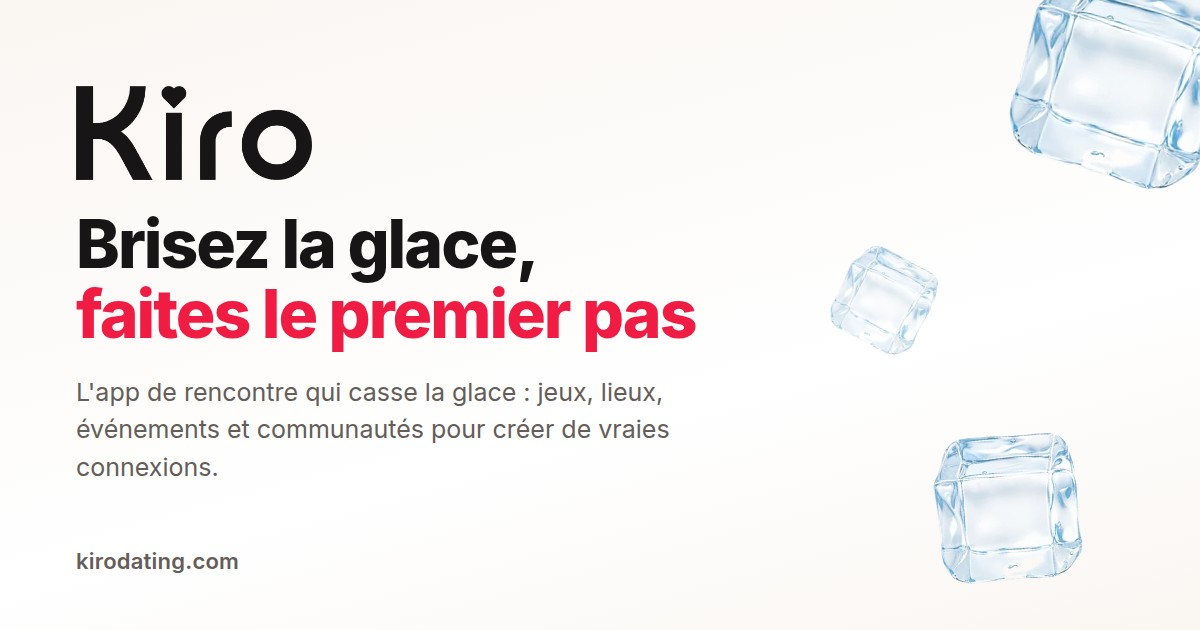
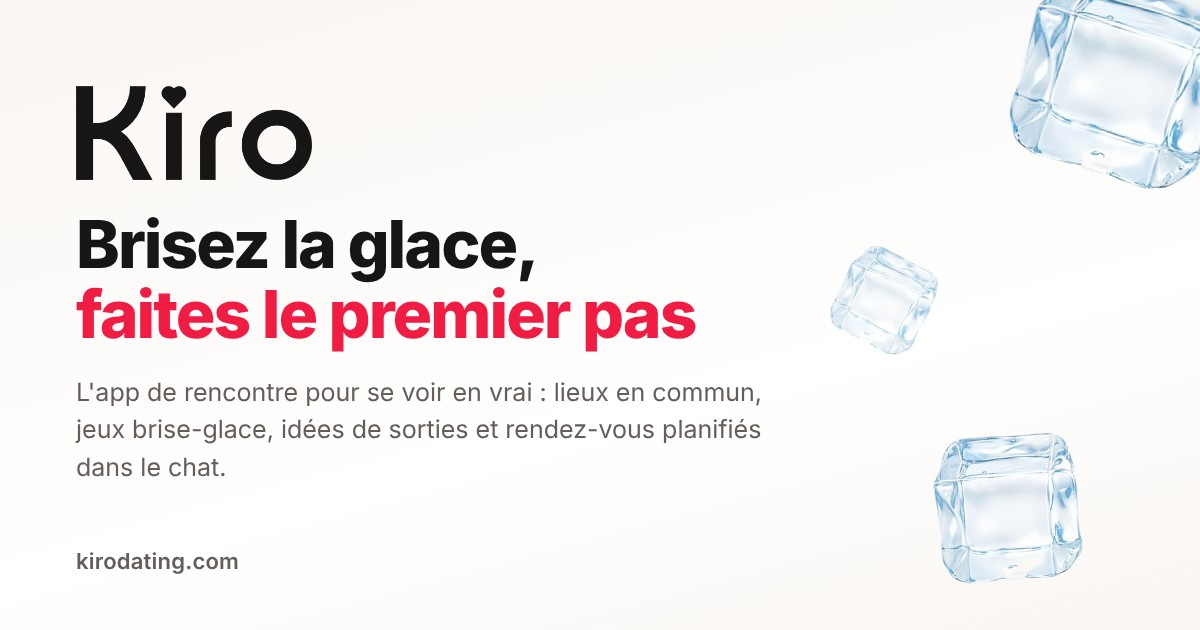
fix(content): aligner la copie publique sur les fonctionnalités de lancement
Retire des 7 langues, du hero et d'un article les promesses abandonnées ou non validées (communautés, traductions, Super Flames, speed dating, incognito, boost). Noms et règles réels des jeux (Match Sync, Connais-moi invite-moi, 80 %), forfaits en hiérarchie neutre, ajout au calendrier au lieu de « synchronisation des agendas ». Aperçu de partage régénéré ; l'ancienne image est conservée.

Réf. : SITE-SEO-2026-10-29 (Kiro Project Guardian v2.1.0) — revue indépendante : APPROUVÉ AVEC RÉSERVES.

Claude-Session: https://claude.ai/code/session_01LstRUTo5pxmeYCBYGNR9bs

diff --git a/src/components/Sections.css b/src/components/Sections.css
@@ -284,7 +284,7 @@
   transform: translateY(-10px) rotate(5deg);
 }
 
-/* Perfect Date : calendrier + barre de 70 % */
+/* Connais-moi, invite-moi : calendrier + barre de 80 % (seuil 4/5) */
 .gi-date {
   display: grid;
   gap: 20px;
@@ -341,7 +341,7 @@
   text-shadow: 0 0 10px rgba(255, 255, 255, 0.8);
 }
 
-/* Rangée de progression : icône + « 70 % Complété » + barre */
+/* Rangée de progression : icône + « 80 % Complété » + barre */
 .date-row {
   display: flex;
   align-items: center;
@@ -389,7 +389,7 @@
 .date-bar i {
   position: absolute;
   inset: 0 auto 0 0;
-  width: 70%;
+  width: 80%;
   border-radius: 999px;
   background: #fff;
 }

diff --git a/src/components/Sections.jsx b/src/components/Sections.jsx
@@ -98,7 +98,7 @@ const GameIllustration = ({ index, completedLabel }) => {
       <div className="date-row">
         <div className="date-cal"><CalendarCheck size={22} /></div>
         <div className="date-meta">
-          <b>70%</b>
+          <b>80%</b>
           <span>{completedLabel}</span>
         </div>
         <div className="date-bar"><i /></div>
